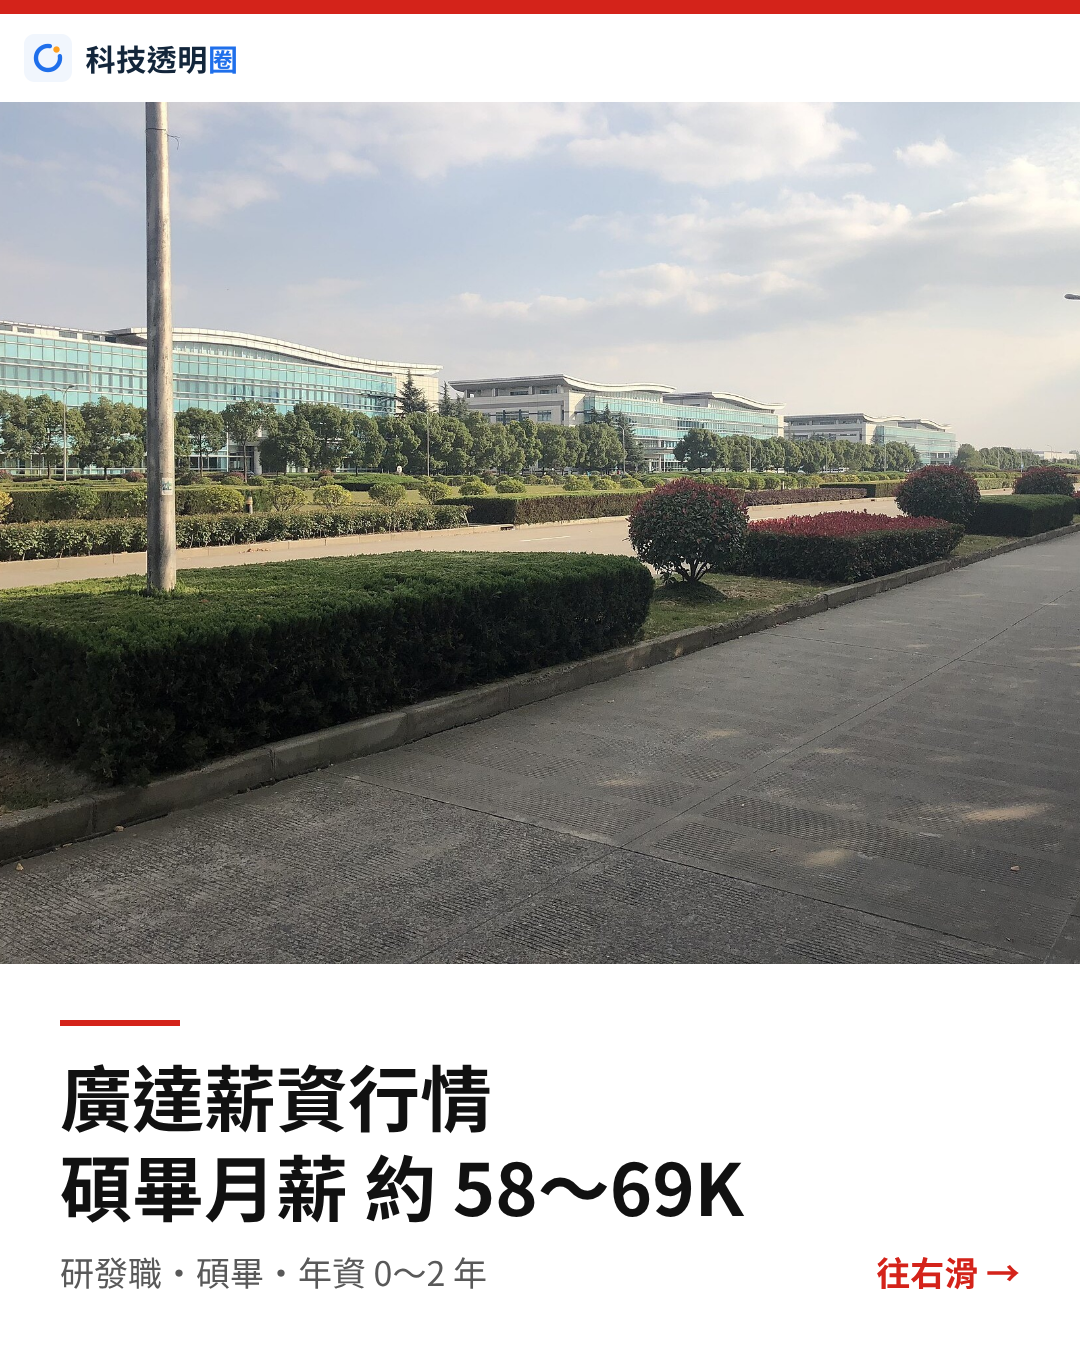
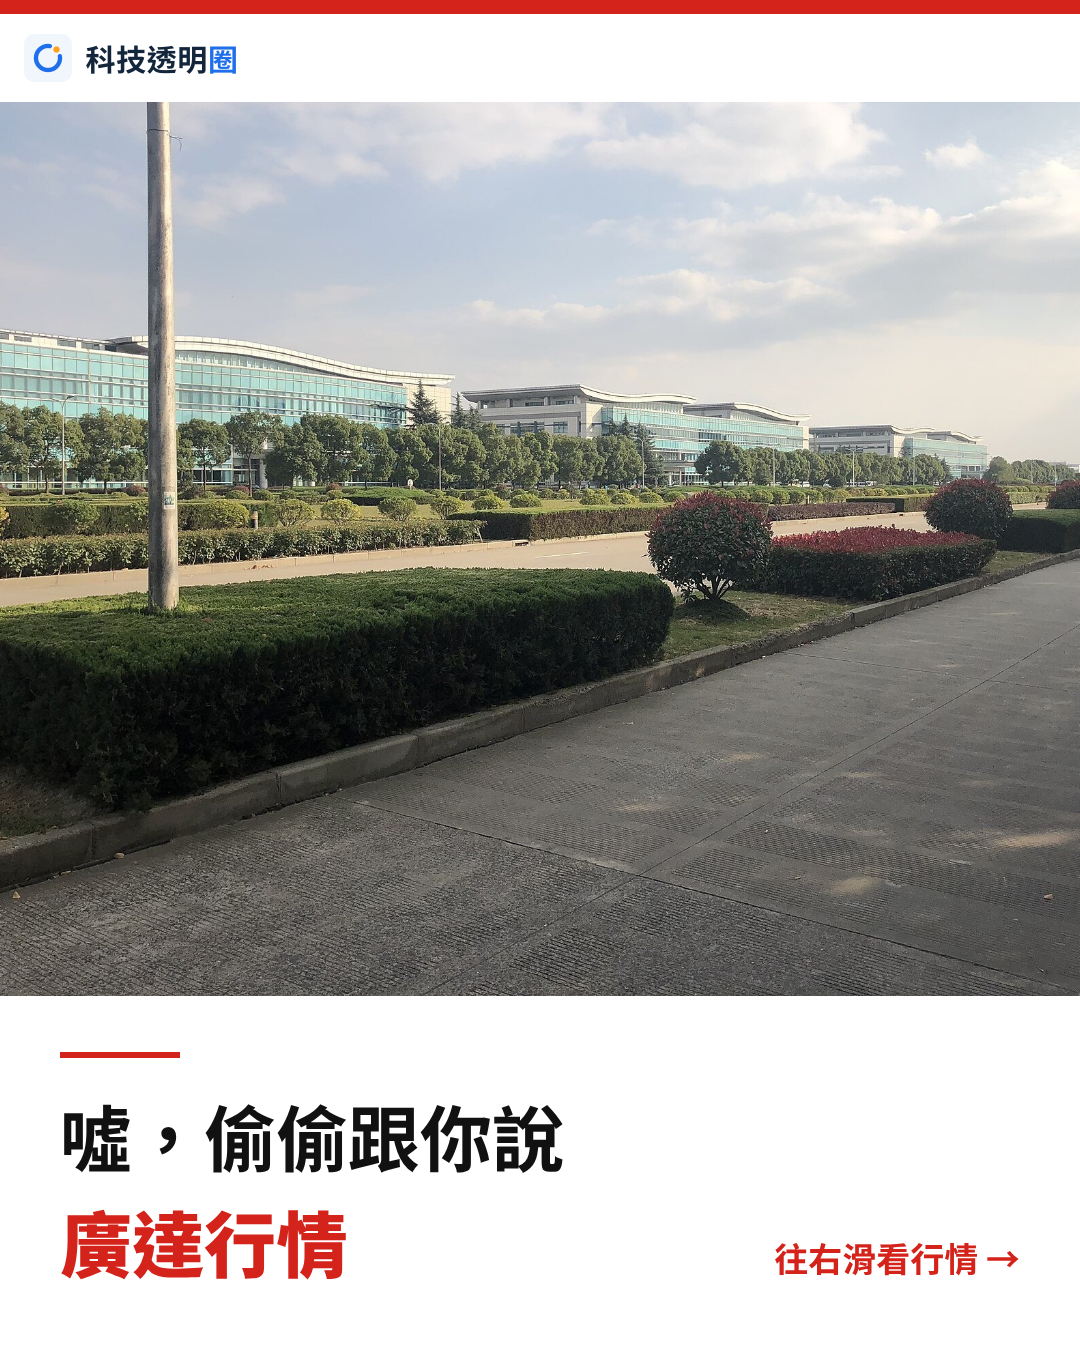
tc：廣達封面改「噓，偷偷跟你說／廣達行情」、拿掉封面月薪與副標，提示改「往右滑看行情 →」；文案首行配合；法遵追加審查
Andy 原話：「下方只需要表示廣達行情 並且嘗試有點偷偷說的感覺標題」

Claude-Session: https://claude.ai/code/session_018gakVRNRsek4G6osuECGNS

diff --git a/docs/marketing/channels/tc/posts/20261105_quanta/legal_review.md b/docs/marketing/channels/tc/posts/20261105_quanta/legal_review.md
@@ -52,3 +52,15 @@
 
 第 2 張重出：程式 2 張 0 筆（`overlap_report.json` 只更新 2_fields）；人工看過第 2 張全解析度 0 筆。封面未改字，沿用原檔。
 重出方式：`TW_FONT_DIR=<scratchpad>/fontcss TC_PHOTO_ROOT=<photo_lib 目錄> TC_HLOGO=docs/tc/assets/brand/horizontal_light.png python render_quanta.py <ASSETS> <OUT>`。
+
+## 六、11-05 追加：封面改「噓，偷偷跟你說／廣達行情」
+
+Andy 原話：「下方只需要表示廣達行情 並且嘗試有點偷偷說的感覺標題」。
+
+| 項目 | 結論 | 理由（出處／信心） |
+|---|---|---|
+| 封面標題「噓，偷偷跟你說／廣達行情」，拿掉「碩畢月薪 約 58～69K」與副標 | ✅ 可發 | 這是語氣，不是陳述事實；內容全部是網友公開回報＋朋友說法，文案與第 2 張都標「網友回報，非公司公告」。拿掉封面數字與「碩畢」，第二節 A 的學歷口徑問題在封面上就不存在了（中） |
+| 「偷偷說」的殘留風險 | ⚠ 注意，不擋 | 語氣會讓人聯想到「內部消息」，可能引來在職者在留言貼內部數字、職等對照或截圖（守則 4、5；2-1 職等對照表、分紅公式）。配套：① 文案、圖上都**不准**出現「內部」「爆料」「內幕」「獨家」；② 結尾維持「區間就好、不用講部門」；③ 留言出現薪資單截圖、職等表、分紅公式、部門＋職等＋年資組合 → 隱藏或刪除，照守則 10。系列若固定用這個語氣，同樣適用（中低） |
+| Threads／IG 第一行改「🤫 噓，偷偷跟你說：代號「肉鬆」🥩的廣達，碩畢待遇長怎樣？」 | ✅ | 同上；後面緊接出處與「非公司公告，未經查證」，不構成冒充內部來源。Threads 主文 440 字（≤ 500） |
+
+封面重出：兩行 72px（第二行瑞士紅 900 字重），行高改 106px（90px 時兩行字框互疊 15px，被程式抓到）；「往右滑看行情 →」34px 與第二行基線對齊、右緣 x=1020；沒有表情符號。重疊檢查：程式 2 張 0 筆；人工看過封面全解析度 0 筆。照片仍為 photo_12（上海廠區），之後換桃園總部官方照時，文案的「非桃園總部」要一起拿掉。
